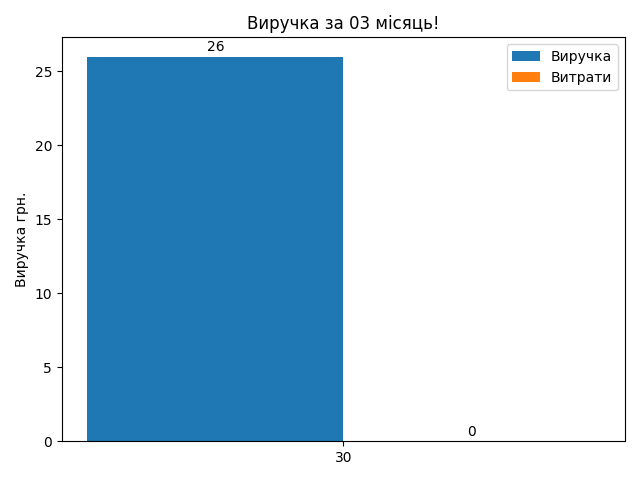
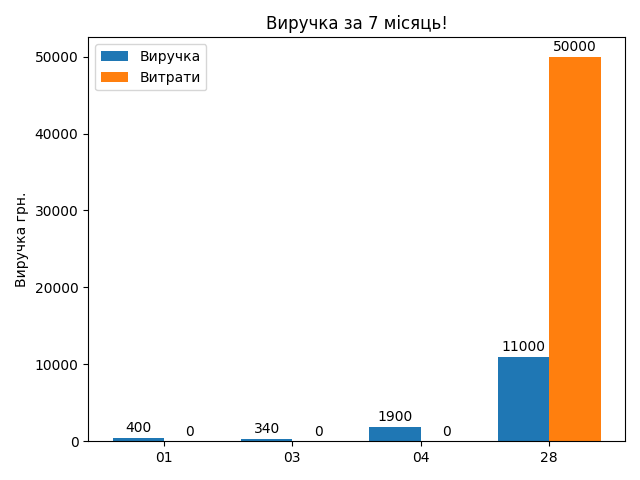
code refactoring

diff --git a/bot.py b/bot.py
@@ -7,13 +7,17 @@ from aiogram.types import ReplyKeyboardRemove
 from aiogram.contrib.fsm_storage.memory import MemoryStorage
 from aiogram.dispatcher.handler import CancelHandler
 from aiogram.dispatcher import filters
-import conf 
+import conf
+import datetime
 from aiogram.dispatcher.middlewares import BaseMiddleware
-from bd.bdnew import botBDnew
+from bd.bdnew import BotBDnew
 from loguru import logger
 from aiogram.utils.executor import start_webhook
 
 TEST_MODE = True
+
+if conf.VPS:
+    TEST_MODE = False
 
 ##------------------Блок ініціалізації-----------------##
 if TEST_MODE:
@@ -22,10 +26,10 @@ else:
     API_Token = conf.TOKEN
 
 ADMIN_ID = conf.ADMIN_ID
-bot = Bot(token=API_Token)#os.getenv('TOKEN'))
+bot = Bot(token=API_Token)  # os.getenv('TOKEN'))
 storage = MemoryStorage()
-dp = Dispatcher(bot,storage=storage)
-botbdnew = botBDnew()
+dp = Dispatcher(bot, storage=storage)
+botbdnew = BotBDnew()
 logger.add("debug.txt")
 # webhook settings
 WEBHOOK_HOST = 'https://vmi957205.contaboserver.net'
@@ -36,76 +40,89 @@ WEBHOOK_URL = f"{WEBHOOK_HOST}{WEBHOOK_PATH}"
 WEBAPP_HOST = '0.0.0.0'  # or ip 127.0.0.1
 WEBAPP_PORT = 3004
 
+
 ##--------------Машини станів----------------------------##
 class FSMzapAM(StatesGroup):
     vuruhka = State()
+
+
 class FSMzapPM(StatesGroup):
     vuruhka = State()
+
+
 class FSMzapCredet(StatesGroup):
     cash = State()
     description = State()
 
+
 ##---------------------Midelware-------------------------------##
 class MidlWare(BaseMiddleware):
-    async def on_process_update(self,update: types.Update,date: dict):
+    async def on_process_update(self, update: types.Update, date: dict):
         logger.debug(update)
         logger.debug(update.message.from_user.id)
         if update.message.from_user.id not in ADMIN_ID:
             logger.debug(f"Хтось лівий зайшов {update.message.from_user.id}")
             raise CancelHandler()
 
+
 ##-------------------handlers--------------------------------------##
-@dp.message_handler(commands=['start', 'help'],state= None)
+@dp.message_handler(commands=['start', 'help'], state=None)
 async def send_welcome(message: types.Message):
-    await message.reply("Вітаю! Щоб розпочати натисніть кнопку внизу!",reply_markup=markup)
+    await message.reply("Вітаю! Щоб розпочати натисніть кнопку внизу!", reply_markup=markup)
+
 
 ##--------------------------до обіду виручка------------------------##
-#@dp.message_handler(commands=['Виручка_до_обіду'],state=None)
-@dp.message_handler(filters.Text(equals="Виручка до обіду 💵"),state=None)
-async def cash_toAM(message : types.Message):
+# @dp.message_handler(commands=['Виручка_до_обіду'],state=None)
+@dp.message_handler(filters.Text(equals="Виручка до обіду 💵"), state=None)
+async def cash_toAM(message: types.Message):
     await bot.send_chat_action(chat_id=message.from_user.id, action="typing")
     await FSMzapAM.vuruhka.set()
-    await message.answer("Напишіть вашу обідню виручку💵:",reply_markup=ReplyKeyboardRemove())
+    await message.answer("Напишіть вашу обідню виручку💵:", reply_markup=ReplyKeyboardRemove())
 
-@dp.message_handler(content_types=[types.ContentType.TEXT],state=FSMzapAM.vuruhka)
+
+@dp.message_handler(content_types=[types.ContentType.TEXT], state=FSMzapAM.vuruhka)
 async def f_cash(message: types.Message, state: FSMContext):
     await bot.send_chat_action(chat_id=message.from_user.id, action="typing")
     async with state.proxy() as data:
         data['viruhka'] = message.text
     logger.debug(f"Виручка - {message.text}")
     botbdnew.recAM(data['viruhka'])
-    await bot.send_message(conf.ADMIN_ULIA, f"Виручку {data['viruhka']}грн внесено!",reply_markup=markup)
-    await bot.send_message(conf.ADMIN_SERG, f"Виручку {data['viruhka']}грн внесено!",reply_markup=markup)
+    await bot.send_message(conf.ADMIN_ULIA, f"Виручку {data['viruhka']}грн внесено!", reply_markup=markup)
+    await bot.send_message(conf.ADMIN_SERG, f"Виручку {data['viruhka']}грн внесено!", reply_markup=markup)
     # await message.answer(f"Виручку {data['viruhka']}грн внесено!",reply_markup=markup)
     await state.finish()
 
+
 ##--------------------------після обіду виручка------------------------##
-@dp.message_handler(filters.Text(equals="Виручка після обіду 💶"),state=None)
-async def cash_afterPM(message : types.Message):
+@dp.message_handler(filters.Text(equals="Виручка після обіду 💶"), state=None)
+async def cash_afterPM(message: types.Message):
     await bot.send_chat_action(chat_id=message.from_user.id, action="typing")
     await FSMzapPM.vuruhka.set()
-    await message.answer("Напишіть вашу виручку в кінці дня:",reply_markup=ReplyKeyboardRemove())
+    await message.answer("Напишіть вашу виручку в кінці дня:", reply_markup=ReplyKeyboardRemove())
 
-@dp.message_handler(content_types=[types.ContentType.TEXT],state=FSMzapPM.vuruhka)
+
+@dp.message_handler(content_types=[types.ContentType.TEXT], state=FSMzapPM.vuruhka)
 async def get_pokaznik(message: types.Message, state: FSMContext):
     await bot.send_chat_action(chat_id=message.from_user.id, action="typing")
     async with state.proxy() as data:
         data['viruhka'] = message.text
     logger.debug(f"Виручка - {message.text}")
     botbdnew.recPM(data['viruhka'])
-    await bot.send_message(conf.ADMIN_ULIA, f"Виручку {data['viruhka']}грн внесено!",reply_markup=markup)
-    await bot.send_message(conf.ADMIN_SERG, f"Виручку {data['viruhka']}грн внесено!",reply_markup=markup)
+    await bot.send_message(conf.ADMIN_ULIA, f"Виручку {data['viruhka']}грн внесено!", reply_markup=markup)
+    await bot.send_message(conf.ADMIN_SERG, f"Виручку {data['viruhka']}грн внесено!", reply_markup=markup)
     # await message.answer(f"Виручку {data['viruhka']}грн внесено!",reply_markup=markup)
     await state.finish()
 
+
 ##--------------------------видатки-----------------------##
-@dp.message_handler(filters.Text(equals="Видатки"),state=None)
-async def credet(message : types.Message):
+@dp.message_handler(filters.Text(equals="Видатки"), state=None)
+async def credet(message: types.Message):
     await FSMzapCredet.cash.set()
     await bot.send_chat_action(chat_id=message.from_user.id, action="typing")
-    await message.answer("Напишіть суму:",reply_markup=ReplyKeyboardRemove())
+    await message.answer("Напишіть суму:", reply_markup=ReplyKeyboardRemove())
 
-@dp.message_handler(content_types=[types.ContentType.TEXT],state=FSMzapCredet.cash)
+
+@dp.message_handler(content_types=[types.ContentType.TEXT], state=FSMzapCredet.cash)
 async def getcash(message: types.Message, state: FSMContext):
     await bot.send_chat_action(chat_id=message.from_user.id, action="typing")
     async with state.proxy() as data:
@@ -114,59 +131,98 @@ async def getcash(message: types.Message, state: FSMContext):
     await message.answer(f"Опишіть за що саме:")
     await FSMzapCredet.next()
 
-@dp.message_handler(content_types=[types.ContentType.TEXT],state=FSMzapCredet.description)
+
+@dp.message_handler(content_types=[types.ContentType.TEXT], state=FSMzapCredet.description)
 async def description(message: types.Message, state: FSMContext):
     await bot.send_chat_action(chat_id=message.from_user.id, action="typing")
     async with state.proxy() as data:
         data['desr'] = message.text
     logger.debug(f"Опис - {message.text}")
-    botbdnew.recCredet(data['viruhka'],data["desr"])
-    await message.answer(f"Витрати {data['desr']} {data['viruhka']} внесено",reply_markup=markup)
+    botbdnew.recCredet(data['viruhka'], data["desr"])
+    await message.answer(f"Витрати {data['desr']} {data['viruhka']} внесено", reply_markup=markup)
     await state.finish()
 
+
 ##----------------------Статистика------------------------##
-@dp.message_handler(filters.Text(equals="Статистика за місяць 📊"),state=None)
-async def month_statistic(message : types.Message):
+@dp.message_handler(filters.Text(equals="Статистика за місяць 📊"), state=None)
+async def month_statistic(message: types.Message):
     await bot.send_chat_action(chat_id=message.from_user.id, action="typing")
-    te = botBDnew.statNew()
+    now = datetime.datetime.now()
+    te = BotBDnew.statOfMonth(month=now.month, year=now.year)
     doc = open('testplor.png', 'rb')
     await message.answer(te)
     await message.reply_photo(doc)
 
-@dp.message_handler(filters.Text(equals="Минулий місяць"),state=None)
-async def month_statistic(message : types.Message):
+
+@dp.message_handler(filters.Text(equals="Минулий місяць"), state=None)
+async def month_statistic(message: types.Message):
     await bot.send_chat_action(chat_id=message.from_user.id, action="typing")
-    te = botBDnew.statLastMounth()
+    now = datetime.datetime.now()
+    month = now.month
+    year = now.year
+    if month > 1:
+        month = now.month - 1
+    else:
+         year = now.year - 1
+
+    te = BotBDnew.statOfMonth(month=month, year=year)
     doc = open('testplor.png', 'rb')
     await message.answer(te)
     await message.reply_photo(doc)
- 
+
+
+@dp.message_handler(filters.Text(equals="Рік"), state=None)
+async def month_statistic(message: types.Message):
+    now = datetime.datetime.now()
+    month = now.month
+    year = now.year
+    for month in range(1, month + 1):
+        await bot.send_chat_action(chat_id=message.from_user.id, action="typing")
+        te = BotBDnew.statOfMonth(month=month, year=year)
+        try:
+            doc = open('testplor.png', 'rb')
+            # await message.answer(te)
+            await message.reply_photo(doc)
+        except:
+            pass
+
+    await bot.send_chat_action(chat_id=message.from_user.id, action="typing")
+    te = BotBDnew.statAllYear(year=year)
+    doc = open('testplor.png', 'rb')
+    await message.answer(te)
+    # await message.reply_photo(doc)
+
+
 ##----------------------------Різне----------------------##
 @dp.message_handler()
-async def echo(message : types.Message):
+async def echo(message: types.Message):
     if message.text == "Файл12":
         doc = open('debug.txt', 'rb')
         await message.reply_document(doc)
     elif message.text == "req":
         pass
     else:
-        await message.answer("Не розумію",reply_markup=markup)
-    
+        await message.answer("Не розумію", reply_markup=markup)
+
+
 ##-------------------Запуск бота-------------------------##
 if TEST_MODE:
     print("Bot running")
     dp.middleware.setup(MidlWare())
-    executor.start_polling(dp,skip_updates=True)
+    executor.start_polling(dp, skip_updates=True)
 else:
     async def on_startup(dp):
         await bot.set_webhook(WEBHOOK_URL)
         logger.debug("Бот запущено")
+
 
     async def on_shutdown(dp):
         logger.debug('Зупиняюся..')
         await bot.delete_webhook()
         await dp.storage.close()
         await dp.storage.wait_closed()
+
+
     if __name__ == '__main__':
         dp.middleware.setup(MidlWare())
         start_webhook(
@@ -177,5 +233,4 @@ else:
             skip_updates=True,
             host=WEBAPP_HOST,
             port=WEBAPP_PORT,
-        )   
-        
+        )

diff --git a/keyboards/client_keyboard.py b/keyboards/client_keyboard.py
@@ -12,4 +12,4 @@ kbcl.add(b1,b2).add(b3,b4)
 
 markup = ReplyKeyboardMarkup(resize_keyboard=True, row_width=4)
 
-markup.add(('Виручка до обіду 💵'), 'Виручка після обіду 💶').add('Статистика за місяць 📊','Видатки').add('Минулий місяць')
+markup.add(('Виручка до обіду 💵'), 'Виручка після обіду 💶').add('Статистика за місяць 📊','Видатки').add('Минулий місяць','Рік')
